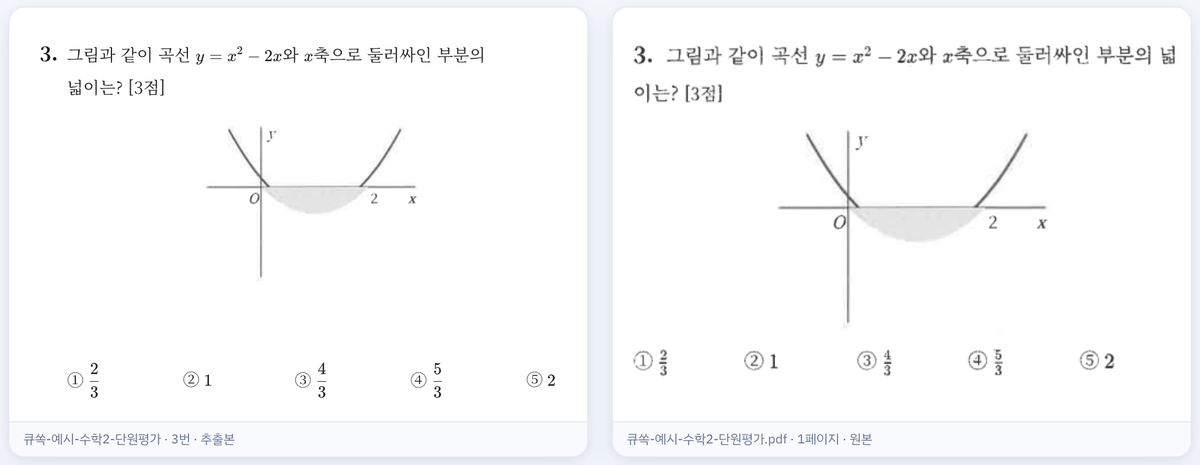
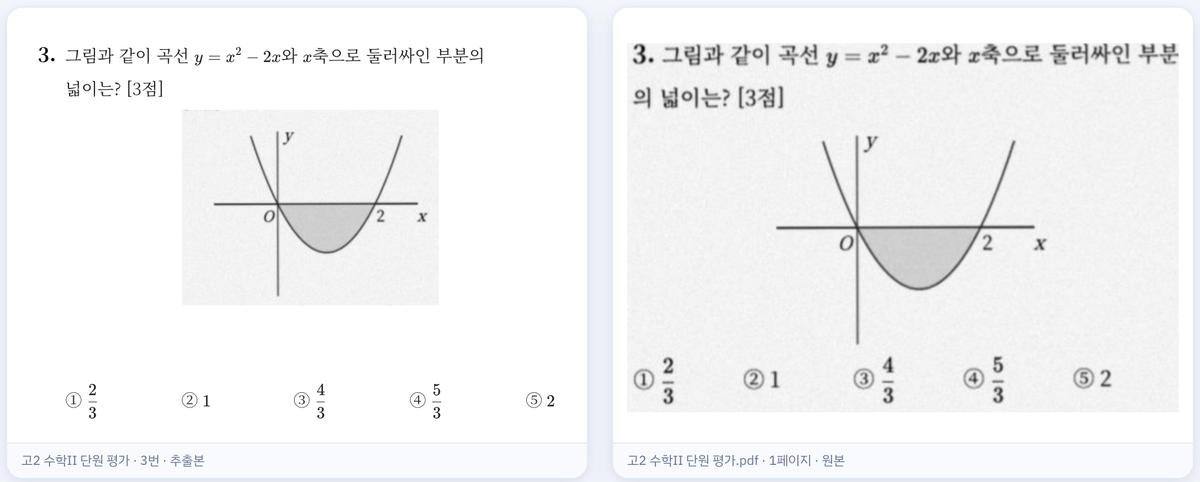
홈: 고민 구역 삭제·저장 구역 위로 · 원본 대조 사진 고친 예시 시험지로 · 구글 사용료 기준일 표기(키 안내 포함) (exam-builder 8b517d6)

diff --git a/index.html b/index.html
@@ -544,7 +544,7 @@ h1 .accent.on{background-size:100% 4px}
 .ainote{max-width:980px;margin:0 auto;border:1px solid var(--line);background:#fff;border-radius:var(--r);padding:16px 22px;font-size:14px;line-height:1.65;color:var(--ink-soft)}
 .ainote b{display:block;color:var(--ink);margin-bottom:4px;font-size:15px}.ainote p{margin:0}
 /* 가격 */
-#pricing{background:var(--gray)}
+#pricing{background:var(--t1)}
 #pricing .price-plus{margin-top:0}
 #pricing .price-card{background:#fff;border:1px solid var(--line);border-radius:var(--r);box-shadow:var(--sh)}
 #pricing .price-card.featured{background:var(--navy);border:0;color:#fff}
@@ -678,6 +678,7 @@ body,body *:not(code){font-family:"Paperlogy","IBM Plex Sans KR",sans-serif!impo
 @media (max-width:399px){.hero-vid figcaption{white-space:normal;text-wrap:balance}}
 /* design 11-12: 구글 카드 목록을 표 밑에 붙이고 남는 높이는 가격 기준 줄 위로(카드 바닥선은 왼쪽 단추와 맞춤) */
 .pc3 .pc-foot{margin-top:0;flex-grow:1}
+#pricing .pc3 .pc-asof{margin:-12px 4px 10px;text-align:right;font-size:12.5px;color:var(--ink-faint)}
 .pc3 .ai-foot{margin-top:auto;padding-top:8px}
 </style>
 <script>document.addEventListener('DOMContentLoaded',function(){var v=document.getElementById('demo'),b=document.getElementById('vbtn');if(!v||!b)return;
@@ -743,27 +744,6 @@ b.addEventListener('click',function(){v.paused?v.play():v.pause()});v.addEventLi
   <div class="hero-fade"></div>
 </header>
 
-<section id="pain">
-  <div class="wrap">
-    <div class="hd reveal"><p class="hd-q">문제는 이미 많은데</p><h2><span class="mark">다시 쓰기</span>가 힘들죠</h2></div>
-    <div class="quotes">
-      <span class="quote reveal"><svg viewBox="0 0 24 24" aria-hidden="true"><path d="M9.5 6C6.5 6.6 4.5 9 4.5 12.3V18h6v-6H7.6c.2-1.8 1.3-3 3-3.4zm10 0c-3 .6-5 3-5 6.3V18h6v-6h-2.9c.2-1.8 1.3-3 3-3.4z"/></svg>이 문제, 어느 시험지에 있더라…</span><span class="quote reveal"><svg viewBox="0 0 24 24" aria-hidden="true"><path d="M9.5 6C6.5 6.6 4.5 9 4.5 12.3V18h6v-6H7.6c.2-1.8 1.3-3 3-3.4zm10 0c-3 .6-5 3-5 6.3V18h6v-6h-2.9c.2-1.8 1.3-3 3-3.4z"/></svg>수식 하나하나 다시 타이핑하고…</span>
-      <span class="quote reveal"><svg viewBox="0 0 24 24" aria-hidden="true"><path d="M9.5 6C6.5 6.6 4.5 9 4.5 12.3V18h6v-6H7.6c.2-1.8 1.3-3 3-3.4zm10 0c-3 .6-5 3-5 6.3V18h6v-6h-2.9c.2-1.8 1.3-3 3-3.4z"/></svg>캡처하고, 붙이고, 크기 맞추고…</span>
-      <a class="quote reveal" href="#privacy"><svg viewBox="0 0 24 24" aria-hidden="true"><path d="M9.5 6C6.5 6.6 4.5 9 4.5 12.3V18h6v-6H7.6c.2-1.8 1.3-3 3-3.4zm10 0c-3 .6-5 3-5 6.3V18h6v-6h-2.9c.2-1.8 1.3-3 3-3.4z"/></svg>내 자료를 인터넷에 올리긴 불안해요</a>
-    </div>
-  </div>
-</section>
-
-<section id="features">
-  <div class="wrap">
-    <div class="hd reveal"><p class="hd-q">큐쏙에서는</p><h2>내가 쌓은 <span class="mark">문제 DB</span>로 나만의 시험지</h2><div class="subj"><span class="chip on">✓ 수학 지원</span><span class="chip soon">다른 과목 · 준비 중</span></div></div>
-    <div class="tabs reveal">
-      <div class="tablist" role="tablist" aria-label="큐쏙이 하는 일"><button class="tab" role="tab" aria-controls="stage" aria-selected="true"><span class="n">01</span><b>원본 대조<span class="lg"> 편집</span></b><div class="d">원본 PDF와 나란히 놓고 글자·수식을 바로 고칩니다.</div></button><button class="tab" role="tab" aria-controls="stage" aria-selected="false"><span class="n">02</span><b>문제 DB<span class="lg"> 관리</span></b><div class="d">학년·과목 폴더에 쌓고, 시험지 이름으로 찾습니다. 해설 PDF를 올리면 문제마다 해설도 함께 들어갑니다.</div></button><button class="tab" role="tab" aria-controls="stage" aria-selected="false"><span class="n">03</span><b>한글(HWP)<span class="lg"> 시험지 생성</span></b><div class="d">골라 담은 순서대로, 미리보기에서 정한 단·페이지 나눔대로 <span class="nw">한글(HWP) 파일</span>을 만듭니다<small>만든 파일은 한글 또는 한컴독스로 확인할 수 있습니다<br>글꼴 차이로 줄 간격·글자 위치가 조금 다를 수 있습니다</small></div></button></div>
-      <div><div class="stage" id="stage" role="tabpanel"><div class="bar"><i></i><i></i><i></i></div><picture><source media="(max-width:760px)" srcset="img/feat-edit-m.png"><img src="img/feat-edit.png" alt="큐쏙 원본 대조 화면 — 왼쪽은 추출 결과, 오른쪽은 원본" loading="lazy" class="on"></picture><img src="img/feat-db.png" alt="큐쏙 문제 DB 화면 — 학년·과목 폴더와 시험지별 문제 카드" loading="lazy"><picture><source media="(max-width:760px)" srcset="img/hwp-result-m.png"><img class="hwp" src="img/hwp-result.png" alt="직접 만든 예시 문항을 큐쏙에서 .hwpx로 내보내 한글에서 연 화면 — 2단, 수식·그래프·선지" loading="lazy"></picture><span class="hwptag">직접 만든 예시 · 한글에서 연 화면</span><a class="zoom" href="img/hwp-full.png" target="_blank" rel="noopener">크게 보기</a></div><p class="mob-d" id="mobd"></p></div>
-    </div>
-  </div>
-</section>
-
 <section id="privacy">
   <div class="wrap">
     <div class="hd reveal"><p class="hd-q">윈도우 설치형</p><h2>큐쏙은 정리한 문제와 시험지를<br>오직 <span class="mark">선생님 컴퓨터</span>에만 저장합니다</h2><p class="sub">시험지는 AI가 일할 때만(문제 추출, 그림 낙서 지우기) 구글 Gemini로 전송됩니다</p></div>
@@ -777,6 +757,16 @@ b.addEventListener('click',function(){v.paused?v.play():v.pause()});v.addEventLi
   </div>
 </section>
 
+
+<section id="features">
+  <div class="wrap">
+    <div class="hd reveal"><p class="hd-q">큐쏙에서는</p><h2>내가 쌓은 <span class="mark">문제 DB</span>로 나만의 시험지</h2><div class="subj"><span class="chip on">✓ 수학 지원</span><span class="chip soon">다른 과목 · 준비 중</span></div></div>
+    <div class="tabs reveal">
+      <div class="tablist" role="tablist" aria-label="큐쏙이 하는 일"><button class="tab" role="tab" aria-controls="stage" aria-selected="true"><span class="n">01</span><b>원본 대조<span class="lg"> 편집</span></b><div class="d">원본 PDF와 나란히 놓고 글자·수식을 바로 고칩니다.</div></button><button class="tab" role="tab" aria-controls="stage" aria-selected="false"><span class="n">02</span><b>문제 DB<span class="lg"> 관리</span></b><div class="d">학년·과목 폴더에 쌓고, 시험지 이름으로 찾습니다. 해설 PDF를 올리면 문제마다 해설도 함께 들어갑니다.</div></button><button class="tab" role="tab" aria-controls="stage" aria-selected="false"><span class="n">03</span><b>한글(HWP)<span class="lg"> 시험지 생성</span></b><div class="d">골라 담은 순서대로, 미리보기에서 정한 단·페이지 나눔대로 <span class="nw">한글(HWP) 파일</span>을 만듭니다<small>만든 파일은 한글 또는 한컴독스로 확인할 수 있습니다<br>글꼴 차이로 줄 간격·글자 위치가 조금 다를 수 있습니다</small></div></button></div>
+      <div><div class="stage" id="stage" role="tabpanel"><div class="bar"><i></i><i></i><i></i></div><picture><source media="(max-width:760px)" srcset="img/feat-edit-m.png"><img src="img/feat-edit.png" alt="큐쏙 원본 대조 화면 — 왼쪽은 추출 결과, 오른쪽은 원본" loading="lazy" class="on"></picture><img src="img/feat-db.png" alt="큐쏙 문제 DB 화면 — 학년·과목 폴더와 시험지별 문제 카드" loading="lazy"><picture><source media="(max-width:760px)" srcset="img/hwp-result-m.png"><img class="hwp" src="img/hwp-result.png" alt="직접 만든 예시 문항을 큐쏙에서 .hwpx로 내보내 한글에서 연 화면 — 2단, 수식·그래프·선지" loading="lazy"></picture><span class="hwptag">직접 만든 예시 · 한글에서 연 화면</span><a class="zoom" href="img/hwp-full.png" target="_blank" rel="noopener">크게 보기</a></div><p class="mob-d" id="mobd"></p></div>
+    </div>
+  </div>
+</section>
 
 <section id="pricing">
   <div class="wrap">
@@ -814,13 +804,14 @@ b.addEventListener('click',function(){v.paused?v.play():v.pause()});v.addEventLi
         <div class="plan">구글 AI 사용료</div>
         <div class="per"><span class="nw">구글에 직접 충전</span> · <span class="nw">큐쏙 이용료와 따로</span></div>
         <div class="pc-rows">
-          <div class="pc-row"><b class="t"><span class="not-monthly">매달 결제가 아닙니다</span></b><p class="big">최소 8,000원</p><small class="sm">수학 약 1,000문제 분량(2026년 가격) · <span class="nw">2027년 1월 구글 가격 인상 예정</span></small></div>
+          <div class="pc-row"><b class="t"><span class="not-monthly">매달 결제가 아닙니다</span></b><p class="big">최소 8,000원</p><small class="sm">수학 약 1,000문제 분량 · <span class="nw">모의고사 약 20부</span></small></div>
           <div class="pc-row"><div class="pc-hd2"><b class="t">수학 모의고사 한 부 기준 <small>46문제 · 해설 제외</small></b><p class="big2">약 400원</p></div>
             <div class="pc-opt pc-opt-t"><p class="ai-cap">한 문제당 · 한 번 추출 기준 (수학)</p><table class="ai-table"><tbody><tr><th scope="row">문제만</th><td><small>약</small> 8원</td></tr><tr class="sol"><th scope="row">해설까지</th><td><small>약</small> 20원</td></tr></tbody></table></div>
           </div>
         </div>
         <div class="pc-foot">
-          <ul class="ai-notes"><li>추출한 만큼 차감되고, 남은 금액은 다음 달에도 이어서 씁니다(큐쏙 이용 중일 때)</li><li class="oneline">충전 후 <b>1년 안에</b> 쓰지 않은 금액은 사라지고 <span class="nw">환불 불가(구글 정책)</span></li></ul>
+          <p class="pc-asof">※ 2026년 11월 13일 기준</p>
+          <ul class="ai-notes"><li>추출한 만큼 차감되고, 남은 금액은 다음 달에도 이어서 씁니다(큐쏙 이용 중일 때)</li><li class="oneline">충전 후 <b>1년 안에</b> 쓰지 않은 금액은 사라지고 <span class="nw">환불 불가(구글 정책)</span></li><li>구글 정책에 따라 가격이 바뀔 수 있습니다</li></ul>
           <p class="s ai-foot"><a href="guide/ai-key/#charge">구글 충전 안내</a></p>
         </div>
       </div>
@@ -917,7 +908,7 @@ b.addEventListener('click',function(){v.paused?v.play():v.pause()});v.addEventLi
       </details>
       <details>
         <summary>무료 키로도 시험지 한 부를 다 추출할 수 있나요?</summary>
-        <div class="ans"><p class="lead">대개 못 합니다. 무료 키는 하루 약 5~10문제입니다(문제에 따라 다르고, 구글이 한도를 공개하지 않아 계정마다 다를 수 있습니다).</p><ul><li>추출한 문제는 저장되고, 다음 날 <b class="nw">이어서 추출</b>을 누르면 남은 쪽부터 추출합니다.</li><li>무료 한도는 한국 시간 오후 4시(겨울 오후 5시)에 다시 채워집니다.</li><li>한 번에 끝내려면 구글에 충전해 주세요. 최소 8,000원이면 수학 문제 약 1,000문제입니다(2026년 가격 · 2027년 1월 구글 가격 인상 예정). <a href="guide/ai-key/#charge">구글 충전 안내</a></li></ul><p class="note">구글 충전 금액은 환불되지 않고, 충전일부터 1년 안에 쓰지 않으면 사라집니다(구글 정책).</p></div>
+        <div class="ans"><p class="lead">대개 못 합니다. 무료 키는 하루 약 5~10문제입니다(문제에 따라 다르고, 구글이 한도를 공개하지 않아 계정마다 다를 수 있습니다).</p><ul><li>추출한 문제는 저장되고, 다음 날 <b class="nw">이어서 추출</b>을 누르면 남은 쪽부터 추출합니다.</li><li>무료 한도는 한국 시간 오후 4시(겨울 오후 5시)에 다시 채워집니다.</li><li>한 번에 끝내려면 구글에 충전해 주세요. 최소 8,000원이면 수학 문제 약 1,000문제입니다(2026년 11월 13일 기준 · 구글 정책에 따라 가격이 바뀔 수 있음). <a href="guide/ai-key/#charge">구글 충전 안내</a></li></ul><p class="note">구글 충전 금액은 환불되지 않고, 충전일부터 1년 안에 쓰지 않으면 사라집니다(구글 정책).</p></div>
       </details>
       <details class="more">
         <summary>질문 더 보기</summary>

diff --git a/guide/ai-key/index.html b/guide/ai-key/index.html
@@ -242,7 +242,7 @@
 
   <div class="notice">
     <p class="price">최소 8,000원 <span>약 1,000문제(수학 문제 기준)</span></p>
-    <p class="price-if">문제 수는 과목·문제 길이에 따라 달라짐 · 2026년 구글 가격 기준 · 2027년 1월 구글 가격 인상 예정</p>
+    <p class="price-if">문제 수는 과목·문제 길이에 따라 달라짐 · 2026년 11월 13일 기준 · 구글 정책에 따라 가격이 바뀔 수 있음</p>
     <table>
       <tr><th>결제처</th><td>구글에 지불 · 큐쏙(Qssok) 이용료와 별도</td></tr>
       <tr><th>충전 금액</th><td>본인 구글 계정에 보관</td></tr>
